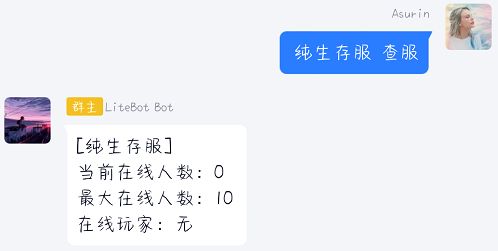
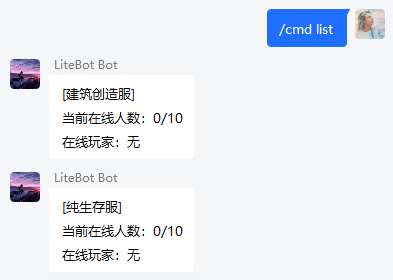
updated

diff --git a/docs/guide/advanced/index.md b/docs/guide/advanced/index.md
@@ -43,19 +43,17 @@ group:
 
   以下是正则表达式的配置项和相关说明：
 
-  | regex（正则表达式）              | type（动作类型）       | content（内容） | 说明                                    | 使用示例                                                                                                                                                  |
-  | -------------------------------- | ---------------------- | --------------- | --------------------------------------- | --------------------------------------------------------------------------------------------------------------------------------------------------------- |
-  | "^(帮助)\$"                      | group_message          | "帮助测试"      | 发送一条自定义内容的群消息"帮助测试"    | <img src = "../../../public/images/guide/advanced/regex_01.png" width="60%">                                                                              |
-  | "^(.+ \|)(查服\$)"               | run_cmd                | "/list"         | 向服务器执行一条预定的控制台指令"/list" | <img src = "../../../public/images/guide/advanced/regex_02.png" width="60%"> <img src = "../../../public/images/guide/advanced/regex_03.png" width="60%"> |
-  | "^(.+ \|)(/cmd )(.+\$)"          | run_cmd_raw            | -               | 向服务器执行一条自定义的控制台指令      | <img src = "../../../public/images/guide/advanced/regex_04.png" width="60%"> <img src = "../../../public/images/guide/advanced/regex_05.png" width="60%"> |
-  | "^(绑定 )([A-Za-z0-9 ]{4,20})\$" | bind_xboxid            | -               | 自助绑定白名单                          | <img src = "../../../public/images/guide/advanced/regex_06.png" width="60%">                                                                              |
-  | "^(申请白名单)\$"                | add_allowlist_self     | -               | 自助添加白名单                          | <img src = "../../../public/images/guide/advanced/regex_07.png" width="60%">                                                                              |
-  | "^(我的信息)\$"                  | get_bind_info_self     | -               | 查询本人的白名单绑定状态                | <img src = "../../../public/images/guide/advanced/regex_08.png" width="60%">                                                                              |
-  | "^(解绑)\$"                      | del_allowlist_self     | -               | 自助解绑白名单                          | <img src = "../../../public/images/guide/advanced/regex_09.png" width="60%">                                                                              |
-  | "^(加白名单)(.+\$)"              | add_allowlist          | -               | 为目标玩家添加白名单                    | <img src = "../../../public/images/guide/advanced/regex_10.png" width="60%">                                                                              |
-  | "^(查绑定 )(.+\$)"               | get_bind_info          | -               | 查询目标玩家的白名单绑定状态            | <img src = "../../../public/images/guide/advanced/regex_11.png" width="60%">                                                                              |
-  | "^(解绑 )(.+\$)"                 | del_allowlist          | -               | 删除目标玩家的白名单                    | <img src = "../../../public/images/guide/advanced/regex_12.png" width="60%">                                                                              |
-  | "^(.+)( /chat )(.+\$)"           | private_chat_to_server | -               | 发送聊天消息到某个服务器                | <img src = "../../../public/images/guide/advanced/regex_13.png" width="90%">                                                                              |
+  | regex（正则表达式）              | type（动作类型）       | content（内容） | 说明                                    | 使用示例                                                                                                                          |
+  | -------------------------------- | ---------------------- | --------------- | --------------------------------------- | --------------------------------------------------------------------------------------------------------------------------------- |
+  | "^(帮助)\$"                      | group_message          | "帮助测试"      | 发送一条自定义内容的群消息"帮助测试"    | <img src = "../../../public/images/guide/advanced/regex_01.png">                                                                  |
+  | "^(.+ \|)(查服\$)"               | run_cmd                | "/list"         | 向服务器执行一条预定的控制台指令"/list" | <img src = "../../../public/images/guide/advanced/regex_02.png"> <img src = "../../../public/images/guide/advanced/regex_03.png"> |
+  | "^(.+ \|)(/cmd )(.+\$)"          | run_cmd_raw            | -               | 向服务器执行一条自定义的控制台指令      | <img src = "../../../public/images/guide/advanced/regex_04.png"> <img src = "../../../public/images/guide/advanced/regex_05.png"> |
+  | "^(绑定 )([A-Za-z0-9 ]{4,20})\$" | bind_xboxid            | -               | 自助绑定白名单                          | <img src = "../../../public/images/guide/advanced/regex_06.png">                                                                  |
+  | "^(我的信息)\$"                  | get_bind_info_self     | -               | 查询本人的白名单绑定状态                | <img src = "../../../public/images/guide/advanced/regex_07.png">                                                                  |
+  | "^(解绑)\$"                      | del_allowlist_self     | -               | 自助解绑白名单                          | <img src = "../../../public/images/guide/advanced/regex_08.png">                                                                  |
+  | "^(玩家信息 )(.+\$)"             | get_bind_info          | -               | 查询目标玩家的白名单绑定状态            | <img src = "../../../public/images/guide/advanced/regex_09.png">                                                                  |
+  | "^(解绑 )(.+\$)"                 | del_allowlist          | -               | 删除目标玩家的白名单                    | <img src = "../../../public/images/guide/advanced/regex_10.png">                                                                  |
+  | "^(.+)( /chat )(.+\$)"           | private_chat_to_server | -               | 发送聊天消息到某个服务器                | <img src = "../../../public/images/guide/advanced/regex_11.png">                                                                  |
 
 ## 语言格式配置
 
@@ -87,51 +85,48 @@ group:
 
   - 机器人回复消息格式
 
-    | 配置项                               | 说明                                   | 支持的占位符                                                                                                                   | 示例配置                                                                                                |
-    | ------------------------------------ | -------------------------------------- | ------------------------------------------------------------------------------------------------------------------------------ | ------------------------------------------------------------------------------------------------------- |
-    | "server_does_not_exist"              | 服务器不存在                           | `{server_name}` : 服务器名称                                                                                                   | "没有名为“{server_name}”的服务器"                                                                       |
-    | "permission_denied"                  | 玩家无权执行相关操作                   | -                                                                                                                              | "权限不足，拒绝执行"                                                                                    |
-    | "server_offline"                     | 服务器离线                             | `{server_name}` : 服务器名称                                                                                                   | "\[{server_name}\]\n 服务器已离线"                                                                      |
-    | "server_connect_error"               | 执行相关操作时遇到服务器连接错误       | -                                                                                                                              | "\[{server_name}\]\n 服务器未启用，或遇到其他错误"                                                      |
-    | "get_bind_info"                      | 获取玩家绑定状态                       | `{qqid}` : 已绑定的 QQ 账号<br>`{xboxid}` : 已绑定的 XboxID<br>`{permission}` : 玩家权限<br>`{bind_status}` : 服务器白名单状态 | "\[绑定信息查询\]\nQQ：{qqid}\nXboxID：{xboxid}\n 权限：{permission}\n 已绑定的服务器：\n{bind_status}" |
-    | "member_bind_succeeded"              | 玩家绑定成功                           | `{XboxID}` : 玩家绑定的 XboxID                                                                                                 | "您的 Xbox ID “{xboxid}” 绑定成功，请等待管理员开通白名单"                                              |
-    | "member_unbind_succeeded"            | 玩家解绑成功                           | `{xboxid}` : 玩家绑定的 XboxID                                                                                                 | "您的 Xbox ID“{xboxid}”解绑成功！"                                                                      |
-    | "member_already_binded"              | 玩家已经绑定过了                       | -                                                                                                                              | "您已经绑定过了，请勿重复绑定！"                                                                        |
-    | "member_already_binded_by_others"    | 玩家需要绑定的 XboxID 已被其他玩家占用 | `{others_qqid}` : XboxID 占用者的 QQ 号                                                                                        | "该 XboxID“{xboxid}”已被 {others_qqid} 绑定，请联系管理员解决！"                                        |
-    | "member_not_bind"                    | 玩家未绑定                             | -                                                                                                                              | "您还没有绑定！"                                                                                        |
-    | "adding_to_allowlist"                | 正在将玩家的 XboxID 添加到服务器白名单 | `{xboxid}` : 玩家绑定的 XboxID                                                                                                 | "正将“{xboxid}”添加到所有服务器的白名单..."                                                             |
-    | "member_already_in_allowlist"        | 玩家的 XboxID 已经在服务器白名单内     | -                                                                                                                              | "您已经添加过白名单了！"                                                                                |
-    | "target_member_not_bind"             | 目标玩家未绑定                         | `{qqid}` : 操作的目标玩家的 QQ 号码                                                                                            | "目标“{qqid}”尚未绑定！"                                                                                |
-    | "target_member_already_in_allowlist" | 目标玩家的 XboxID 已经在服务器白名单内 | `{xboxid}` : 目标玩家绑定的 XboxID                                                                                             | "目标“{xboxid}”已经添加过白名单了！"                                                                    |
-    | "target_member_unbind_succeeded"     | 目标玩家解绑成功                       | `{xboxid}` : 目标玩家绑定的 XboxID<br>`{qqid}` : 目标玩家的 QQ 号                                                              | "已解除“{xboxid}（QQ:{qqid}）”的绑定，准备删除服务器白名单..."                                          |
+    | 配置项                            | 说明                                   | 支持的占位符                                                                                                                   | 示例配置                                                                                                 |
+    | --------------------------------- | -------------------------------------- | ------------------------------------------------------------------------------------------------------------------------------ | -------------------------------------------------------------------------------------------------------- |
+    | "server_does_not_exist"           | 服务器不存在                           | `{server_name}` : 服务器名称                                                                                                   | "没有名为“{server_name}”的服务器"                                                                        |
+    | "permission_denied"               | 玩家无权执行相关操作                   | -                                                                                                                              | "权限不足，拒绝执行"                                                                                     |
+    | "server_offline"                  | 服务器离线                             | `{server_name}` : 服务器名称                                                                                                   | "\[{server_name}\]\n 服务器已离线"                                                                       |
+    | "server_connect_error"            | 执行相关操作时遇到服务器连接错误       | -                                                                                                                              | "\[{server_name}\]\n 服务器未启用，或遇到其他错误"                                                       |
+    | "get_bind_info"                   | 获取玩家绑定状态                       | `{qqid}` : 已绑定的 QQ 账号<br>`{xboxid}` : 已绑定的 XboxID<br>`{permission}` : 玩家权限<br>`{bind_status}` : 服务器白名单状态 | "\[绑定信息查询\]\nQQ：{qqid}\nXboxID：{xboxid}\n 权限：{permission}\n 已绑定的服务器：\n{bind_servers}" |
+    | "member_bind_succeeded"           | 玩家绑定成功                           | `{XboxID}` : 玩家绑定的 XboxID                                                                                                 | "您的 XboxID“{xboxid}” 绑定成功"                                                                         |
+    | "member_unbind_succeeded"         | 玩家解绑成功                           | `{xboxid}` : 玩家绑定的 XboxID                                                                                                 | "您的 XboxID“{xboxid}”解绑成功！"                                                                        |
+    | "member_already_binded"           | 玩家已经绑定过了                       | -                                                                                                                              | "您已经绑定过白名单了，请勿重复绑定！"                                                                   |
+    | "member_already_binded_by_others" | 玩家需要绑定的 XboxID 已被其他玩家占用 | `{others_qqid}` : XboxID 占用者的 QQ 号                                                                                        | "该 XboxID“{xboxid}”已被 {others_qqid} 绑定，请联系管理员！"                                             |
+    | "member_not_bind"                 | 玩家未绑定                             | -                                                                                                                              | "您还没有绑定！"                                                                                         |
+    | "target_member_not_bind"          | 目标玩家未绑定                         | `{qqid}` : 操作的目标玩家的 QQ 号码                                                                                            | "目标“{qqid}”尚未绑定！"                                                                                 |
+    | "target_member_unbind_succeeded"  | 目标玩家解绑成功                       | `{xboxid}` : 目标玩家绑定的 XboxID<br>`{qqid}` : 目标玩家的 QQ 号                                                              | "已解除“{xboxid}（QQ:{qqid}）”的绑定"                                                                    |
 
   ### "join_or_leave_from_servers"
 
-  - 玩家进入/离开服务器消息格式（转发到群聊/隔壁服务器）
+- 玩家进入/离开服务器消息格式（转发到群聊/隔壁服务器）
 
-    | 配置项        | 说明           | 支持的占位符                 | 示例配置                        |
-    | ------------- | -------------- | ---------------------------- | ------------------------------- |
-    | "player_join" | 玩家进入服务器 | `{player}` : 玩家 XboxID<br> | "§e 玩家 {player} 杀进了服务器" |
-    | "player_left" | 玩家离开服务器 | `{player}` : 玩家 XboxID<br> | "§e 玩家 {player} 爬出了服务器" |
+  | 配置项        | 说明           | 支持的占位符                 | 示例配置                        |
+  | ------------- | -------------- | ---------------------------- | ------------------------------- |
+  | "player_join" | 玩家进入服务器 | `{player}` : 玩家 XboxID<br> | "§e 玩家 {player} 杀进了服务器" |
+  | "player_left" | 玩家离开服务器 | `{player}` : 玩家 XboxID<br> | "§e 玩家 {player} 爬出了服务器" |
 
   ### "runcmd_feedback"
 
-  - 群内执行指令后的反馈消息格式（转发到群聊）。配置项即为控制台执行相关指令后的输出内容，当输出内容与配置项不匹配时，将会返回原始输出内容
+- 群内执行指令后的反馈消息格式（转发到群聊）。配置项即为控制台执行相关指令后的输出内容，当输出内容与配置项不匹配时，将会返回原始输出内容
 
-    | 配置项                          | 说明                     | 支持的占位符                                                                           | 示例配置                                                                       |
-    | ------------------------------- | ------------------------ | -------------------------------------------------------------------------------------- | ------------------------------------------------------------------------------ |
-    | "default"                       | 默认反馈（原始输出内容） | `{result} : 指令执行结果 | "\n{result}"                                                |
-    | "get_online_players"            | 服务器在线人数           | `{online}` : 当前在线人数<br>`{max_online}` : 最大在线人数<br>`{players}` : 在线的玩家 | "\n 当前在线人数：{online}\n 最大在线人数：{max_online}\n 在线玩家：{players}" |
-    | "No targets matched selector"   | 没有匹配的目标           | `{server_name}` : 服务器名称                                                           | "\n 没有匹配的目标"                                                            |
-    | "Player added to allowlist"     | 玩家已成功添加到白名单   | -                                                                                      | "\n 玩家已成功添加到白名单"                                                    |
-    | "Player already in allowlist"   | 玩家已经添加过白名单了   | -                                                                                      | "\n 玩家已经添加过白名单了"                                                    |
-    | "Player removed from allowlist" | 玩家已从白名单中移除     | -                                                                                      | "\n 玩家已从白名单中移除"                                                      |
-    | "Player not in allowlist"       | 玩家未在白名单内         | -                                                                                      | "\n 玩家未在白名单内"                                                          |
+  | 配置项                          | 说明                     | 支持的占位符                                                                           | 示例配置                                                                       |
+  | ------------------------------- | ------------------------ | -------------------------------------------------------------------------------------- | ------------------------------------------------------------------------------ |
+  | "default"                       | 默认反馈（原始输出内容） | `{result} : 指令执行结果 | "\n{result}"                                                |
+  | "get_online_players"            | 服务器在线人数           | `{online}` : 当前在线人数<br>`{max_online}` : 最大在线人数<br>`{players}` : 在线的玩家 | "\n 当前在线人数：{online}\n 最大在线人数：{max_online}\n 在线玩家：{players}" |
+  | "No targets matched selector"   | 没有匹配的目标           | `{server_name}` : 服务器名称                                                           | "\n 没有匹配的目标"                                                            |
+  | "Player added to allowlist"     | 玩家已成功添加到白名单   | -                                                                                      | "\n 玩家已成功添加到白名单"                                                    |
+  | "Player already in allowlist"   | 玩家已经添加过白名单了   | -                                                                                      | "\n 玩家已经添加过白名单了"                                                    |
+  | "Player removed from allowlist" | 玩家已从白名单中移除     | -                                                                                      | "\n 玩家已从白名单中移除"                                                      |
+  | "Player not in allowlist"       | 玩家未在白名单内         | -                                                                                      | "\n 玩家未在白名单内"                                                          |
 
   ### "player_die"
 
-  - 玩家在游戏内死亡的消息格式（转发到群聊/隔壁服务器）
+- 玩家在游戏内死亡的消息格式（转发到群聊/隔壁服务器）
 
-    | 配置项                  | 说明             | 支持的占位符                                                            | 示例配置                                            |
-    | ----------------------- | ---------------- | ----------------------------------------------------------------------- | --------------------------------------------------- |
-    | "unknown"、"drowning"等 | 玩家在游戏内死亡 | `{player}` : 玩家 XboxID<br>`{src}` : 伤害源（某些死亡类型的 src 为空） | "§b\[{group_name}\] §a<{group_sender}>§r {content}" |
+  | 配置项                  | 说明             | 支持的占位符                                                            | 示例配置                                            |
+  | ----------------------- | ---------------- | ----------------------------------------------------------------------- | --------------------------------------------------- |
+  | "unknown"、"drowning"等 | 玩家在游戏内死亡 | `{player}` : 玩家 XboxID<br>`{src}` : 伤害源（某些死亡类型的 src 为空） | "§b\[{group_name}\] §a<{group_sender}>§r {content}" |
